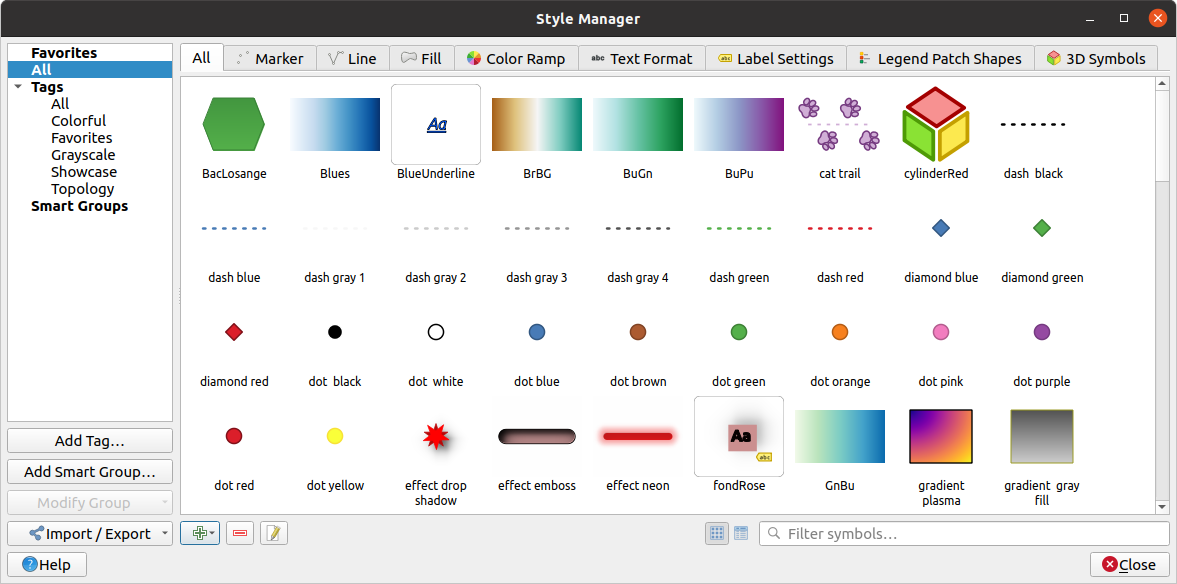
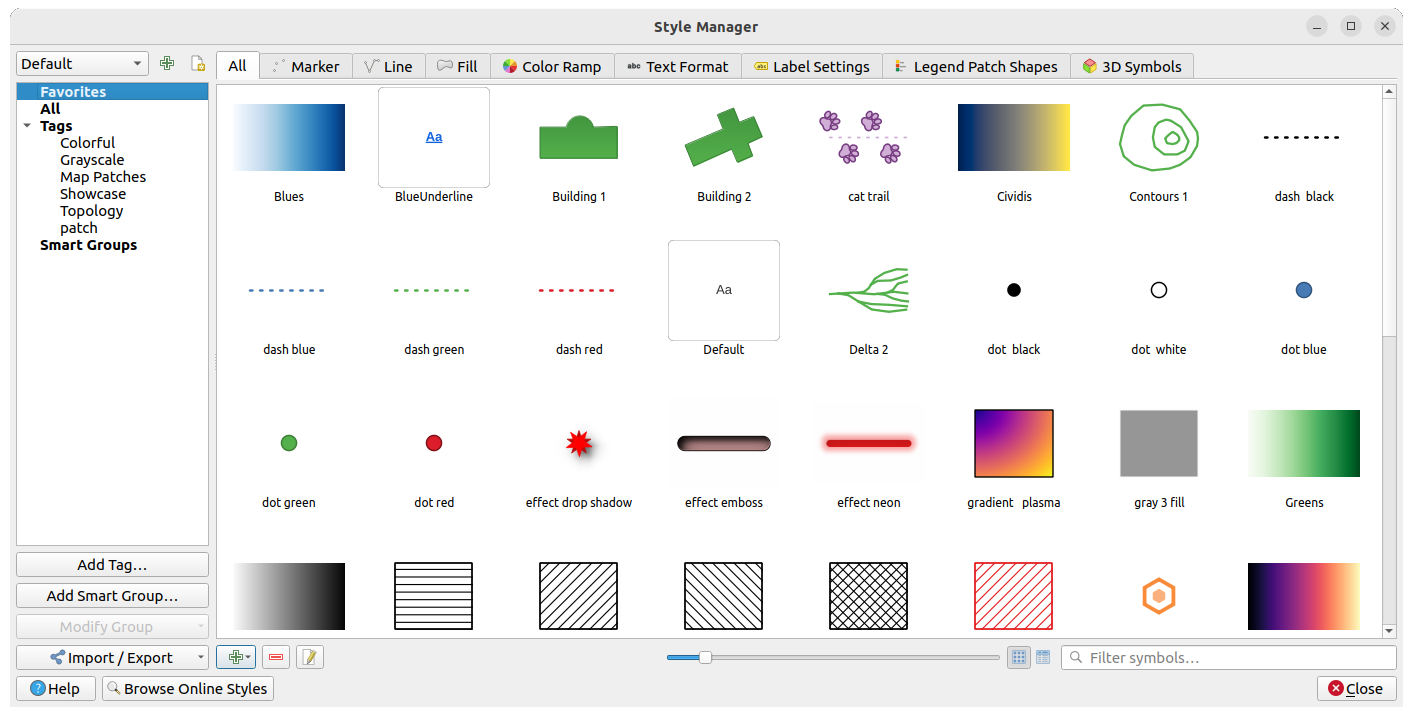
Style manager has a size slider for symbol preview (#7707)

diff --git a/docs/user_manual/style_library/style_manager.rst b/docs/user_manual/style_library/style_manager.rst
@@ -75,6 +75,8 @@ previewed items organized into tabs:
 You can arrange the Styles in |iconView| :guilabel:`Icon View` or in
 |openTable| :guilabel:`List View` on the bottom right side. In both views
 the tooltip shows a larger instance of the style.
+The thumbnail size slider at the left of the icons helps you adjust the actual
+thumbnail sizes in the dialog, for a better preview of the symbols!
 
 For each family of items, you can organize the elements into different categories,
 listed in the panel on the left:
